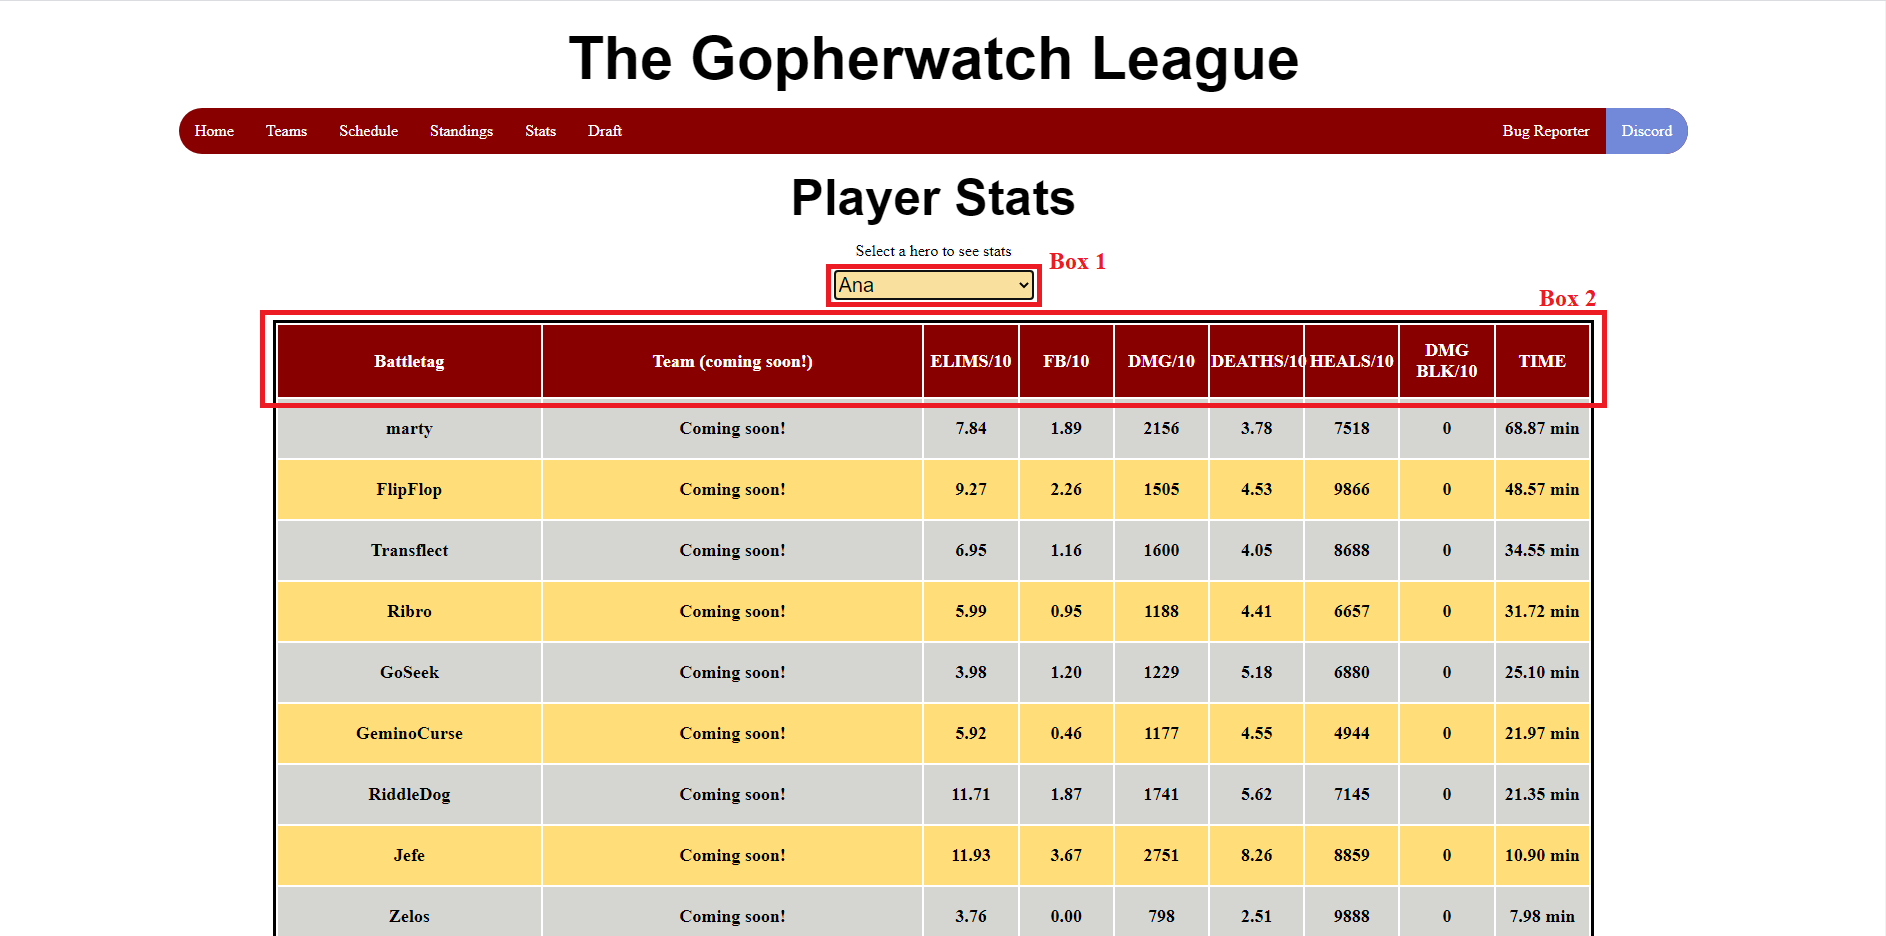
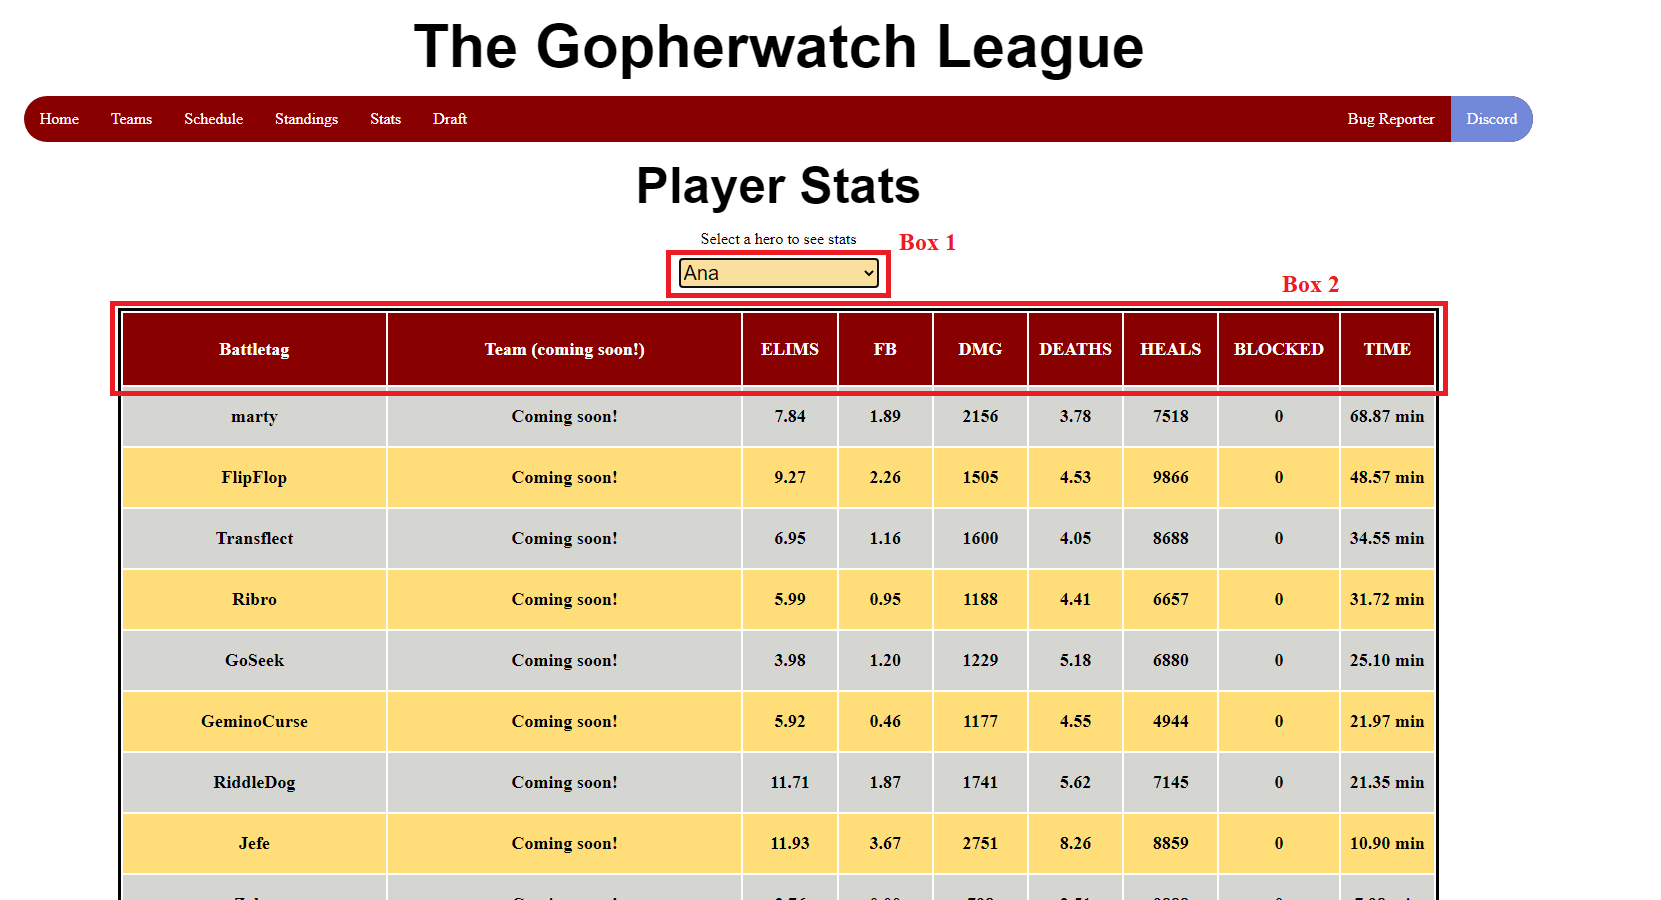
i'm a moron that didn't fix formatting properly

Changed region(s): [[0.0, 0.0, 0.9211, 1.0]]

diff --git a/client/stats.html b/client/stats.html
@@ -68,13 +68,13 @@
 				<thead>
 					<tr>
 						<th style="width:20%;" scope="col" onclick="sortTable('statsTable', 0,false)">Battletag</th>
-						<th style="width:29%;" scope="col" onclick="sortTable('statsTable', 1,false)">Team (coming soon!)</th>
-						<th style="width:7%;" scope="col" onclick="sortTable('statsTable', 2,true)">ELIMS/10</th>
-						<th style="width:7%;" scope="col" onclick="sortTable('statsTable', 3,true)">FB/10</th>
-						<th style="width:7%;" scope="col" onclick="sortTable('statsTable', 4,true)">DMG/10</th>
-						<th style="width:7%;" scope="col" onclick="sortTable('statsTable', 5,true)">DEATHS/10</th>
-						<th style="width:7%;" scope="col" onclick="sortTable('statsTable', 6,true)">HEALS/10</th>
-						<th style="width:7%;" scope="col" onclick="sortTable('statsTable', 7,true)">DMG BLK/10</th>
+						<th style="width:27%;" scope="col" onclick="sortTable('statsTable', 1,false)">Team (coming soon!)</th>
+						<th style="width:7%;" scope="col" onclick="sortTable('statsTable', 2,true)">ELIMS</th>
+						<th style="width:7%;" scope="col" onclick="sortTable('statsTable', 3,true)">FB</th>
+						<th style="width:7%;" scope="col" onclick="sortTable('statsTable', 4,true)">DMG</th>
+						<th style="width:7%;" scope="col" onclick="sortTable('statsTable', 5,true)">DEATHS</th>
+						<th style="width:7%;" scope="col" onclick="sortTable('statsTable', 6,true)">HEALS</th>
+						<th style="width:9%;" scope="col" onclick="sortTable('statsTable', 7,true)">BLOCKED</th>
 						<th style="width:7%;" scope="col" onclick="sortTable('statsTable', 8,true)">TIME</th>
 						
 					</tr>
